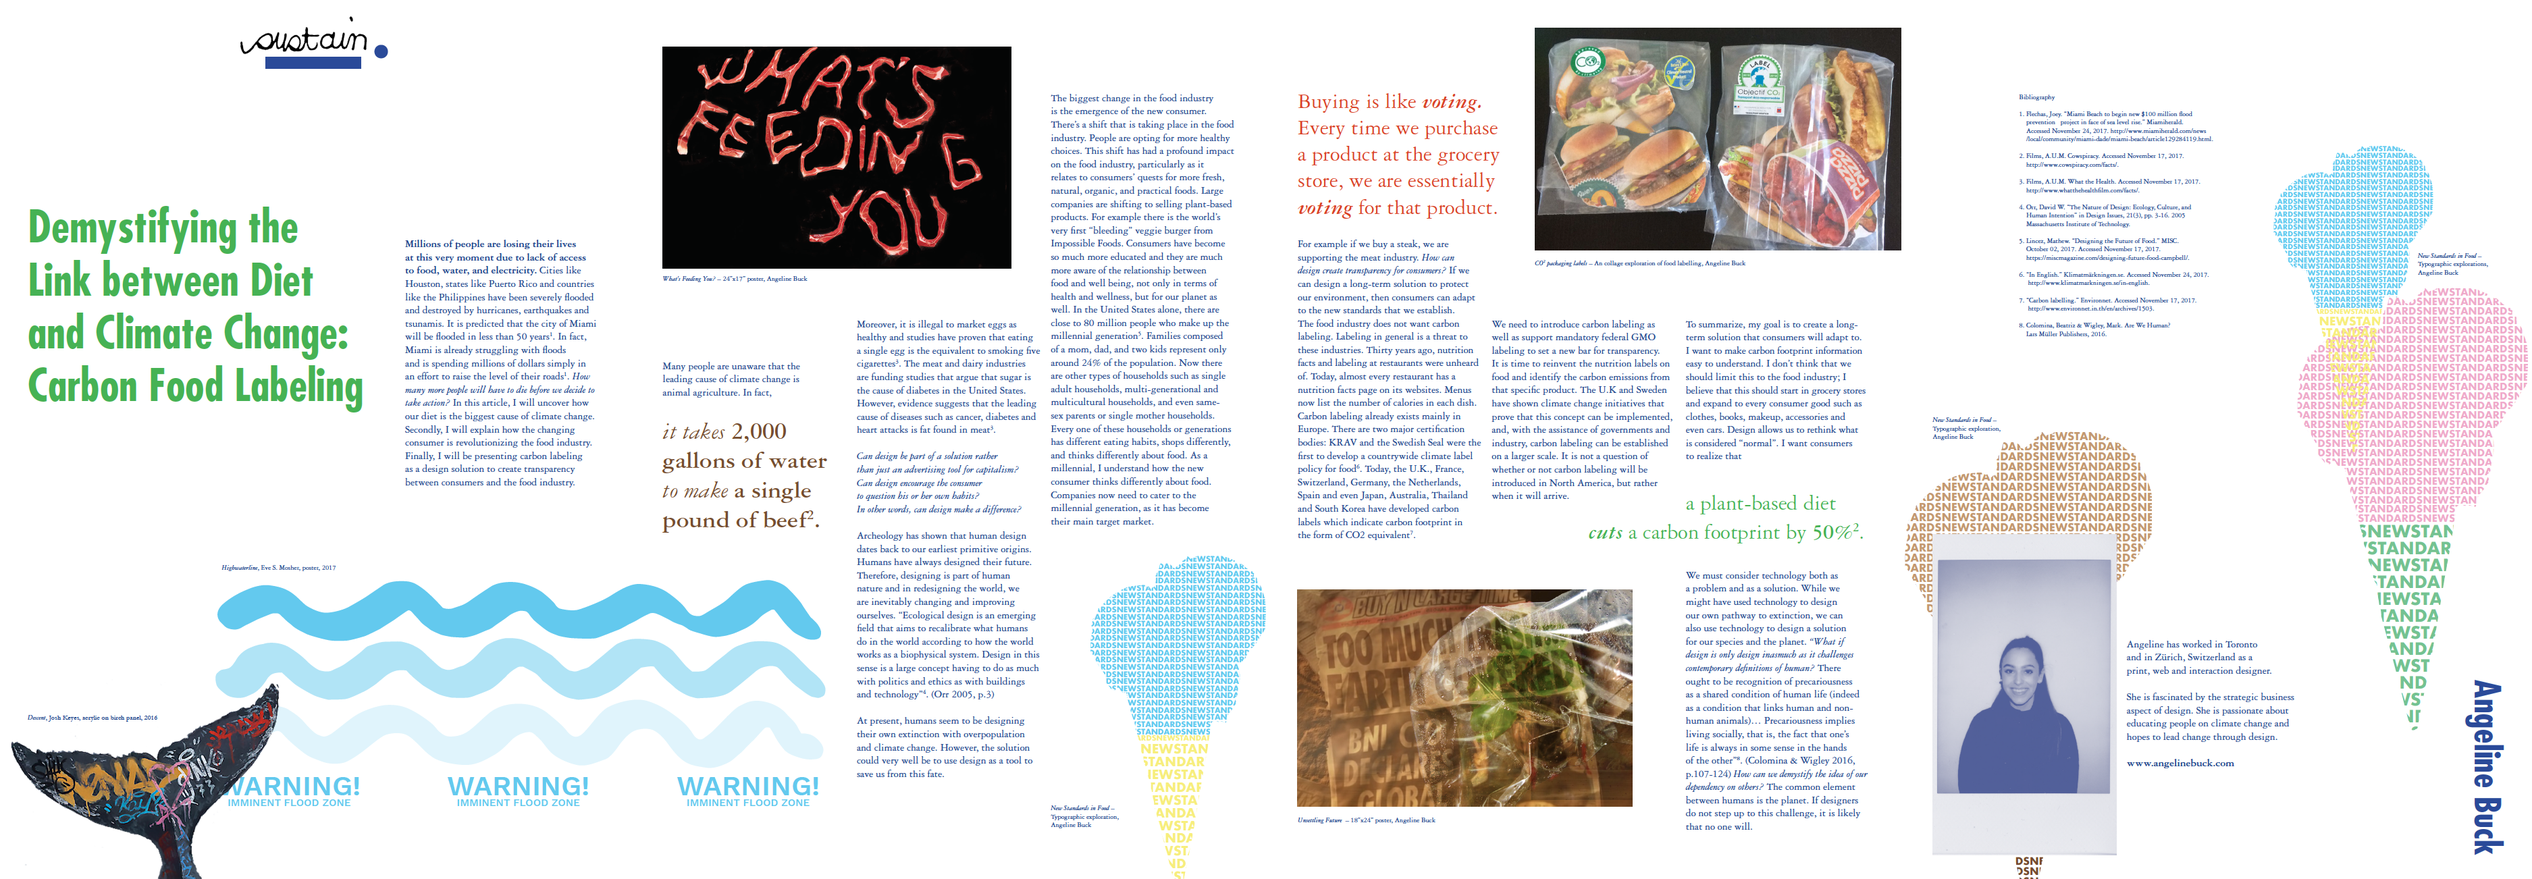
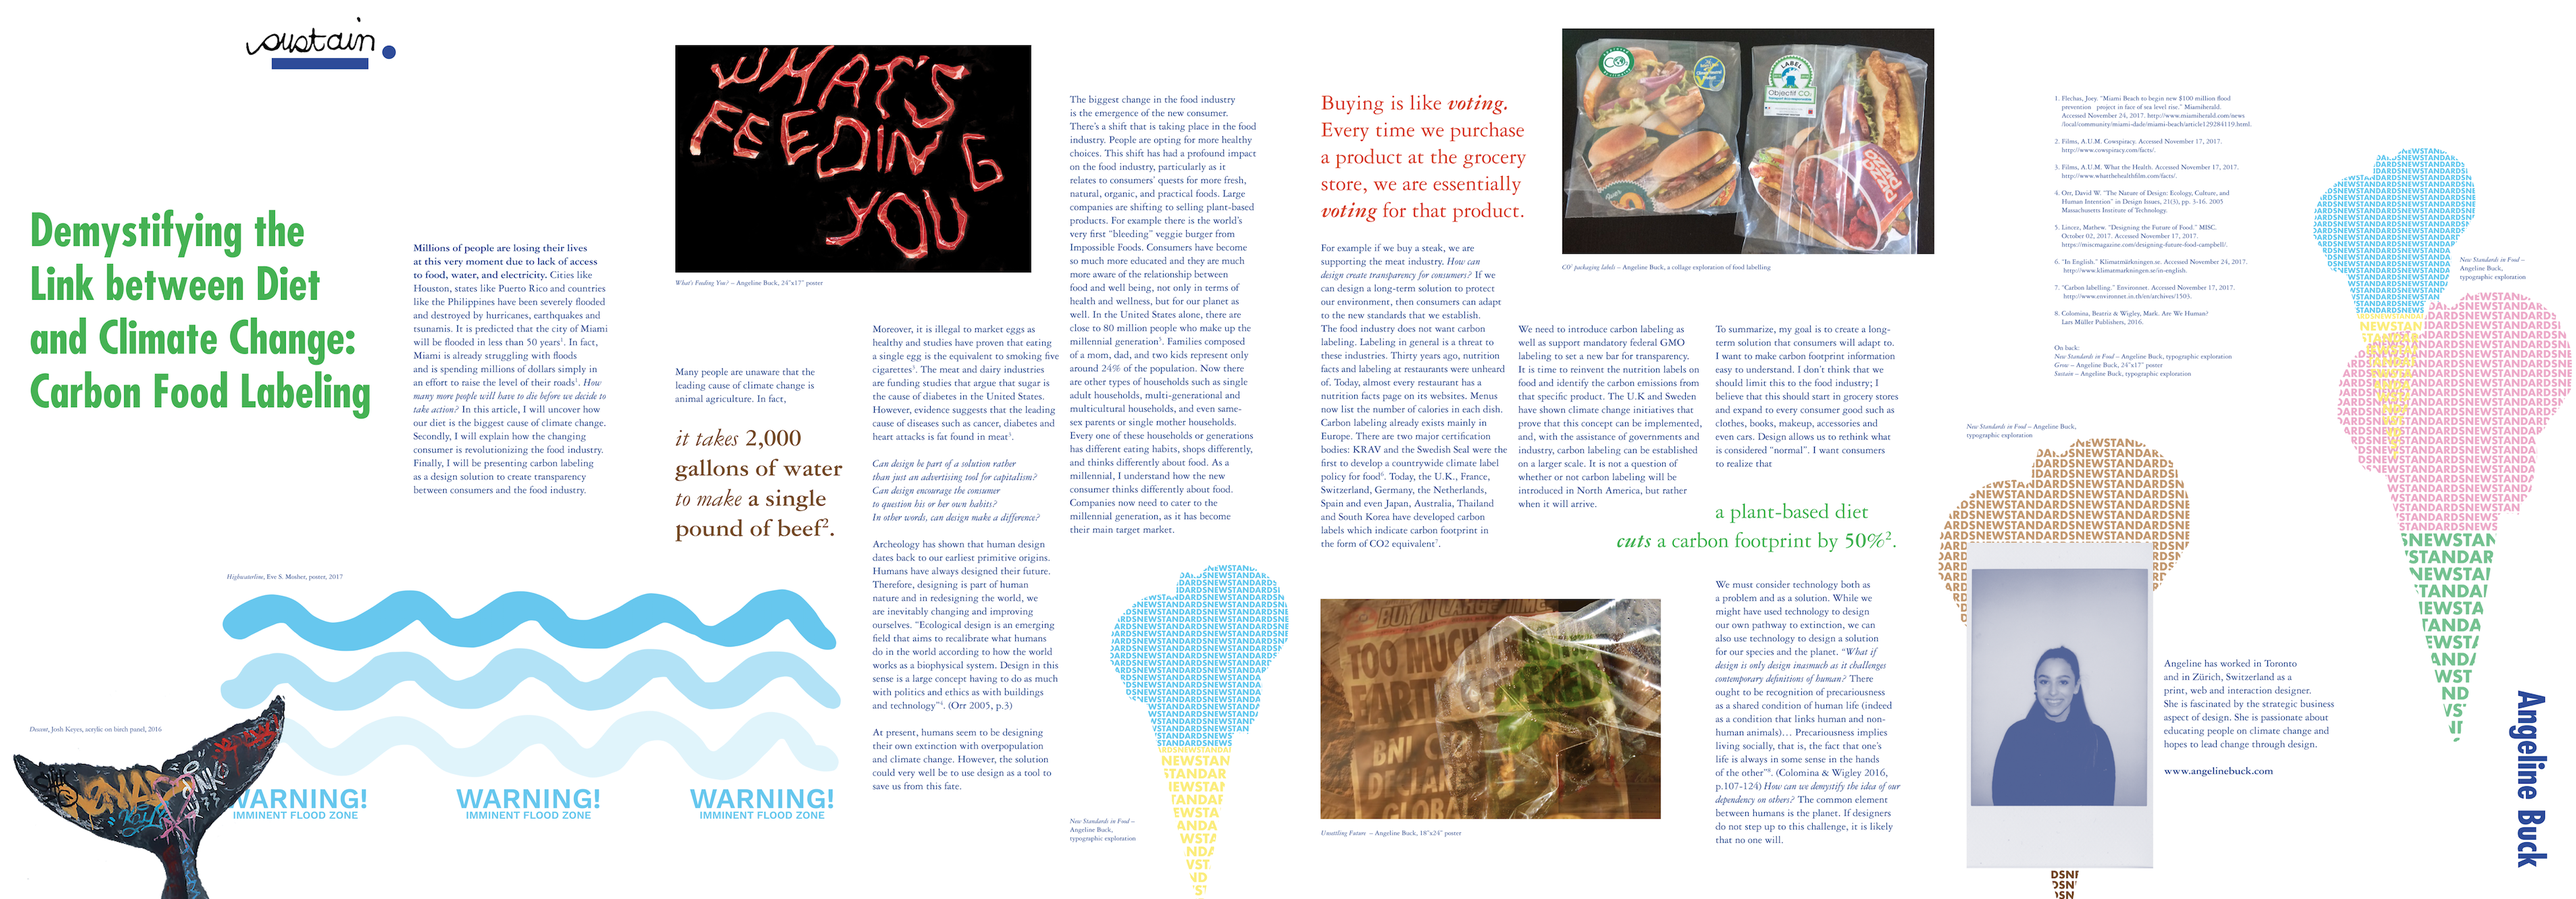
new images

diff --git a/index.html b/index.html
@@ -785,7 +785,7 @@ silkscreen, 2015.
 <!--                    POLAROID PHOTO -->
                         <div class="col-sm-4 col-lg-4 col-md-4 col-xl-3 col-10 center">
                             <br>
-                            <img class="img-fluid" src="http://via.placeholder.com/450x500">
+                            <img class="img-fluid" src="images/xi/bio.png">
                             <span class="d-none d-lg-block"><br><br><br><br></span>
                         </div>
                         <div class="col-1 d-block d-sm-none center">&nbsp;</div>
@@ -812,7 +812,7 @@ silkscreen, 2015.
 
 <!--                COVER IMAGE, NAME + LINK (VISIBLE WHEN CLOSED) -->
                     <a class="sticky-top" data-toggle="collapse" data-parent="#exampleAccordion" href="#saarah" aria-expanded="false" aria-controls="saarah">
-                        <div id="cover" style="background-image: url(images/saarah/cover.png)"><br> <h1 class="white">Saarah Saghir / Urban Wildlife</h1><br></div>
+                        <div id="cover" style="background-image: url(images/saarah/cover.png); background-position: top"><br> <h1 class="white">Saarah Saghir / Urban Wildlife</h1><br></div>
 <!--                        <div class="ml-5 d-none d-xl-block circle"></div>-->
                     </a>
 
@@ -911,7 +911,7 @@ silkscreen, 2015.
                                 <figure class="figure offset-left">
                                     <img class="img-fluid" src="images/saarah/image5.png">
                                     <figcaption class="figure-caption mt-3 text-left">
-                                        Star Thief, Saarah Saghir, digital illustration, 2017
+                                        <i>Once &amp; Future Queen</i>, Saarah Saghir, digital illustration, 2017
                                     </figcaption>
                                 </figure>
 
